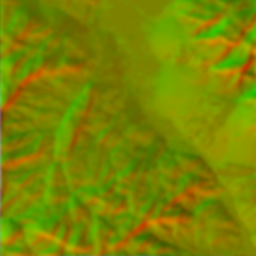
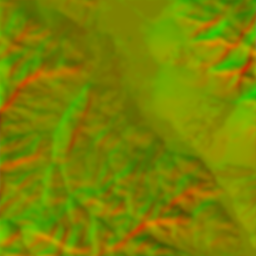
coordenada z añadida

diff --git a/index.html b/index.html
@@ -45,6 +45,7 @@
 
 			uniform sampler2D tOne;
 			uniform sampler2D tSec;
+			uniform sampler2D mdt;
 			uniform float u_rand;
 
 			varying vec2 vUv;
@@ -59,22 +60,31 @@
 				return texture2D( tSec, pos ).rg;
 			}
 			
+			float mdt_lookup(const vec2 pos) {
+				return texture2D( mdt, pos ).r;
+			}
+			
 			void main(void)
 			{
 				vec2 st = vUv;
 				vec4 Cb = texture2D(tOne, st);
 				vec2 wind = wind_lookup( (Cb.xy + 5.) / 10. );
-				vec3 finale = vec3( Cb.rg - (wind - vec2(0.23, 0.62)) * .02, Cb.b);
+				float dem = mdt_lookup( (Cb.xy + 5.) / 10. );
+				vec3 finale = vec3( Cb.rg - (wind - vec2(0.23, 0.62)) * .02, dem);
 				
 				vec2 seed = (finale.xy + st) * u_rand;
-				float drop = step(0.999, rand(seed));
+				//~ float drop = step(0.9999, rand(seed));
+				float drop = step(-5., Cb.x);
 				
 				vec2 random_pos = vec2(rand(seed + 1.3), rand(seed + 2.1));
+				float zeta = mdt_lookup( random_pos );
 				random_pos = (random_pos * 10.) - 5.;
+				vec3 r = vec3( random_pos, zeta);
 				
-				finale.xy = mix(finale.xy, random_pos, drop);
+				//~ finale.xy = mix(finale.xy, random_pos, drop);
+				finale.xyz = mix(r, finale.xyz, drop);
 				
-			    gl_FragColor= vec4( finale.xy, 1., 1. );
+			    gl_FragColor= vec4( finale.xyz, 1. );
 				
 			}
 			
@@ -238,12 +248,18 @@
 				var mapa = new THREE.TextureLoader().load('data/viento2.png');
 				mapa.minFilter = THREE.NearestFilter;
 				mapa.magFilter = THREE.NearestFilter;
+				
+				var mdt = new THREE.TextureLoader().load('data/mdt2.png');
+				mdt.minFilter = THREE.NearestFilter;
+				mdt.magFilter = THREE.NearestFilter;
+
 				dataTex.needsUpdate = true;
 			
 				uniforms = {    // custom uniforms (your textures)
 
 					tOne: { type: "t", value: dataTex },
 					tSec: { type: "t", value: mapa },
+					mdt: { type: "t", value: mdt },
 					u_rand: { type: "f", value: Math.random() },
 					a: { type: "f", value: 0 }
 				};
